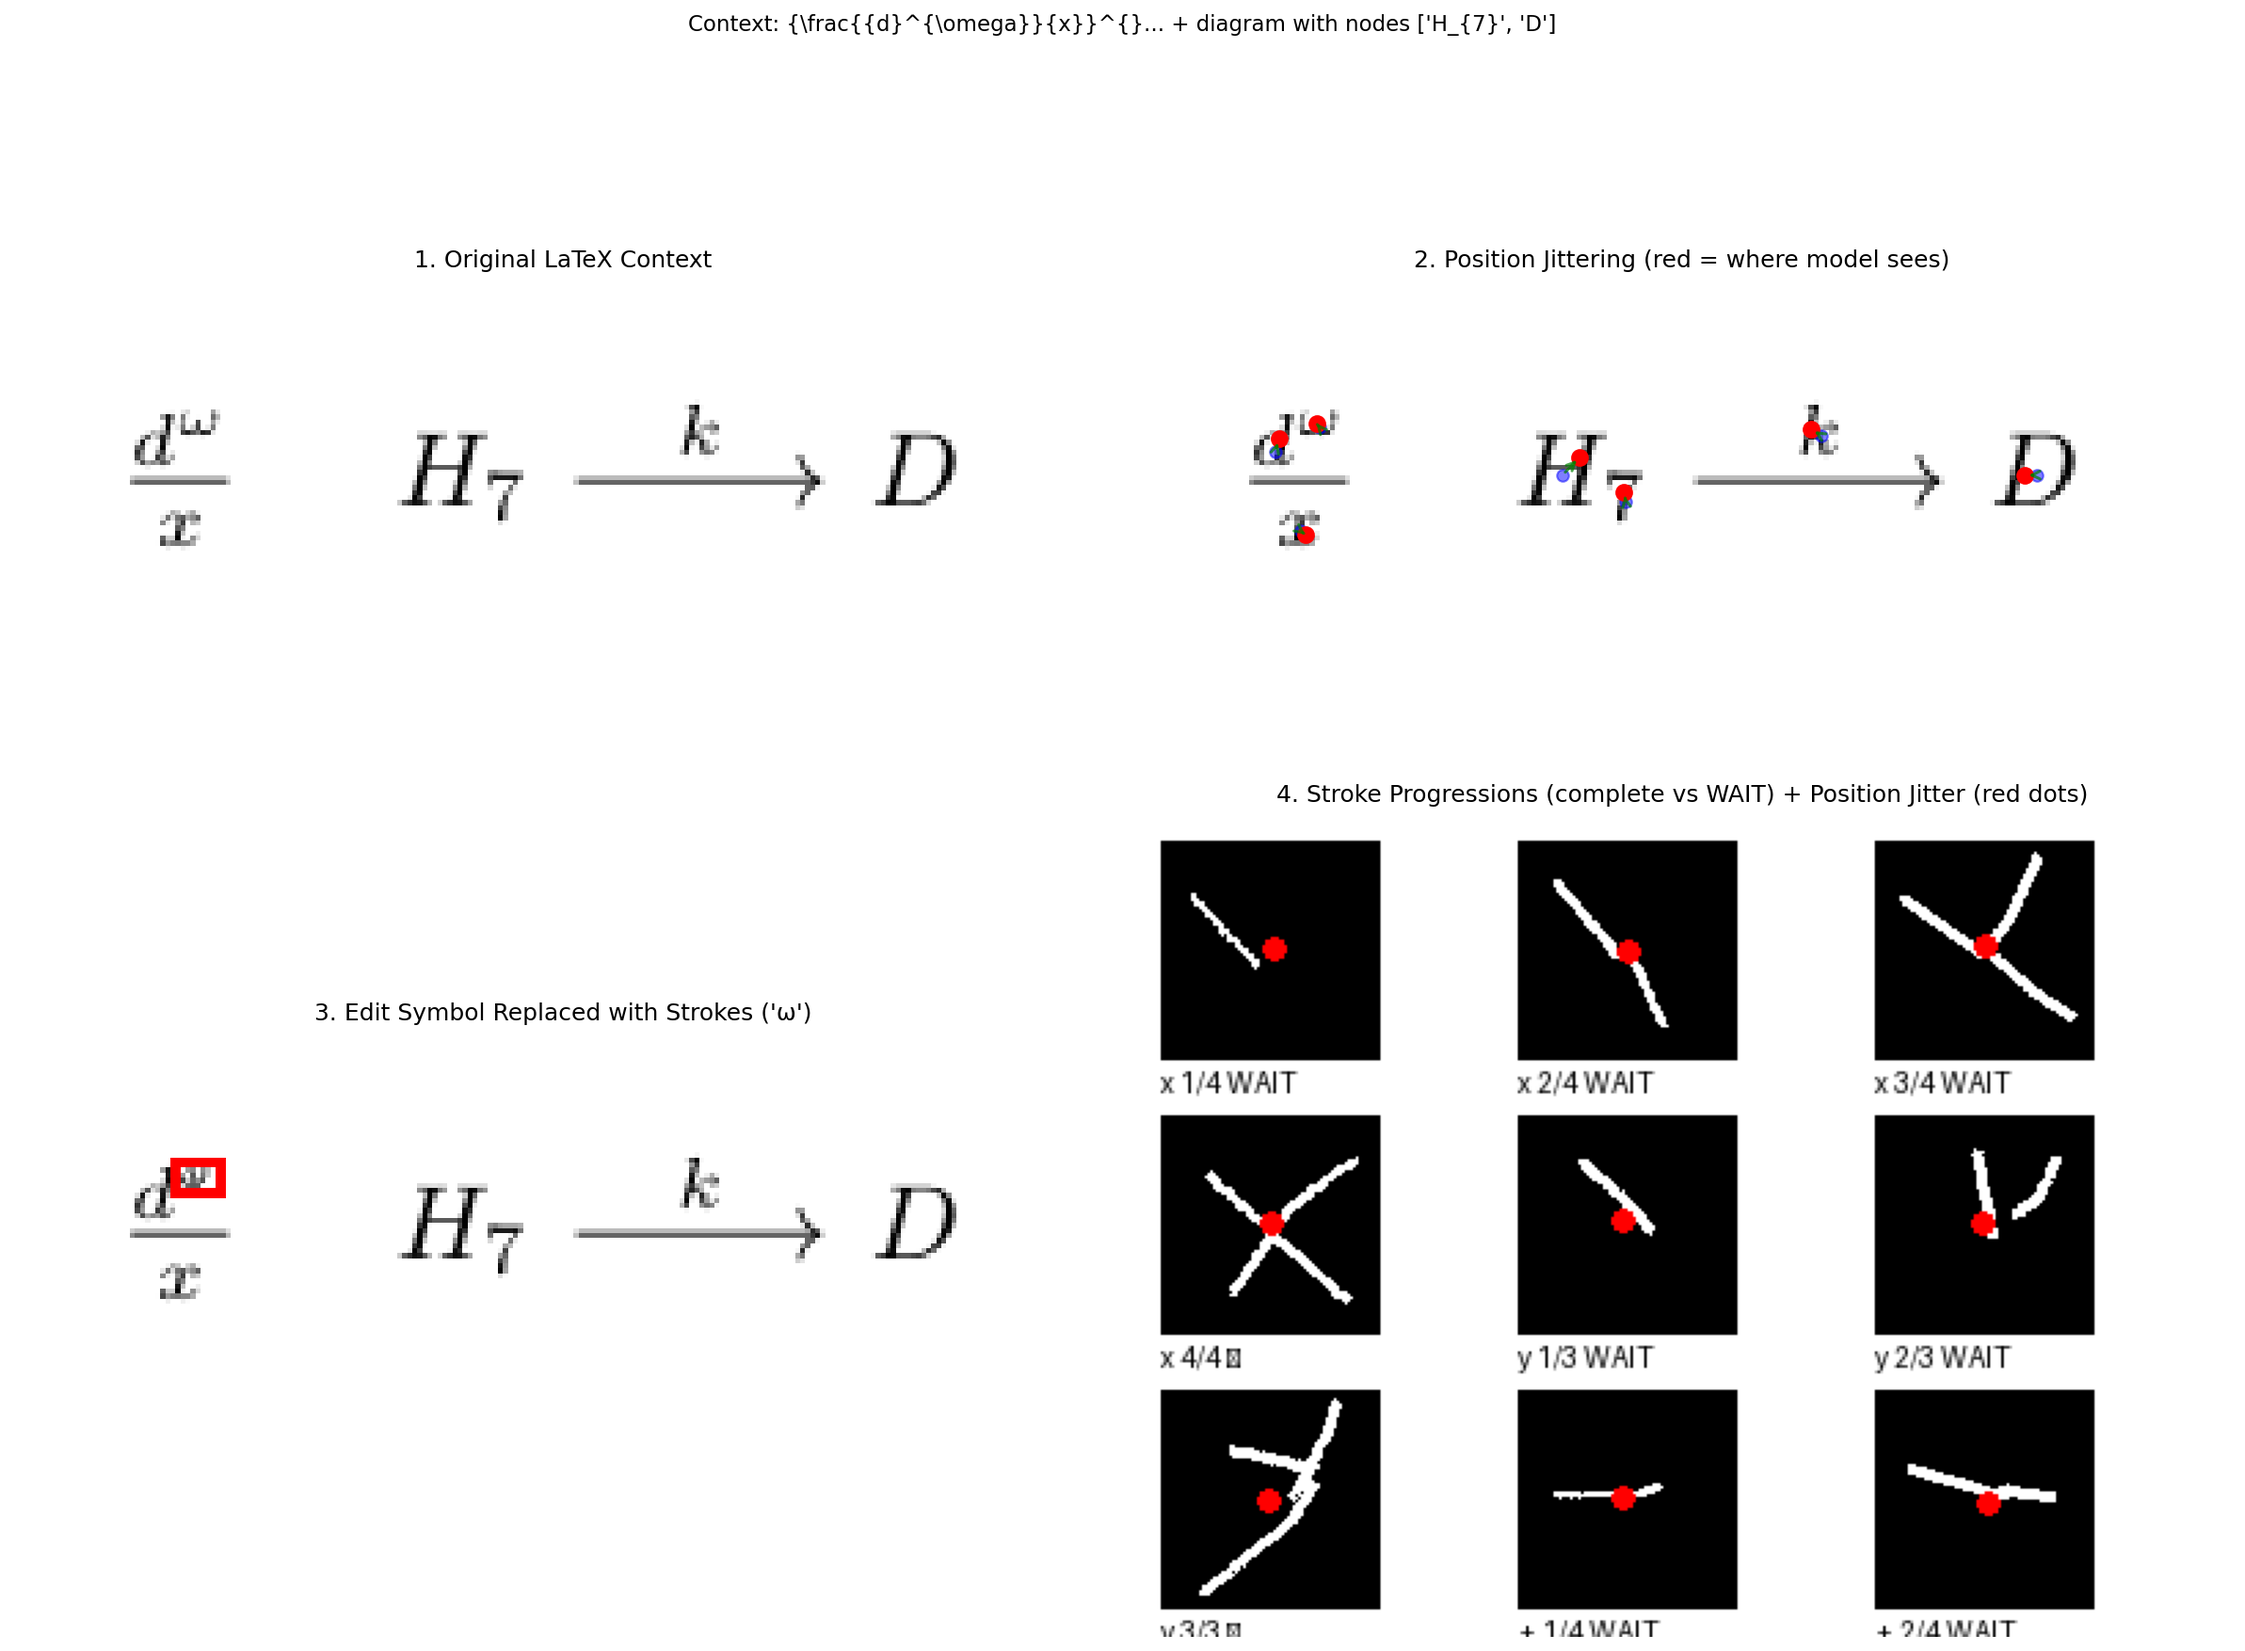
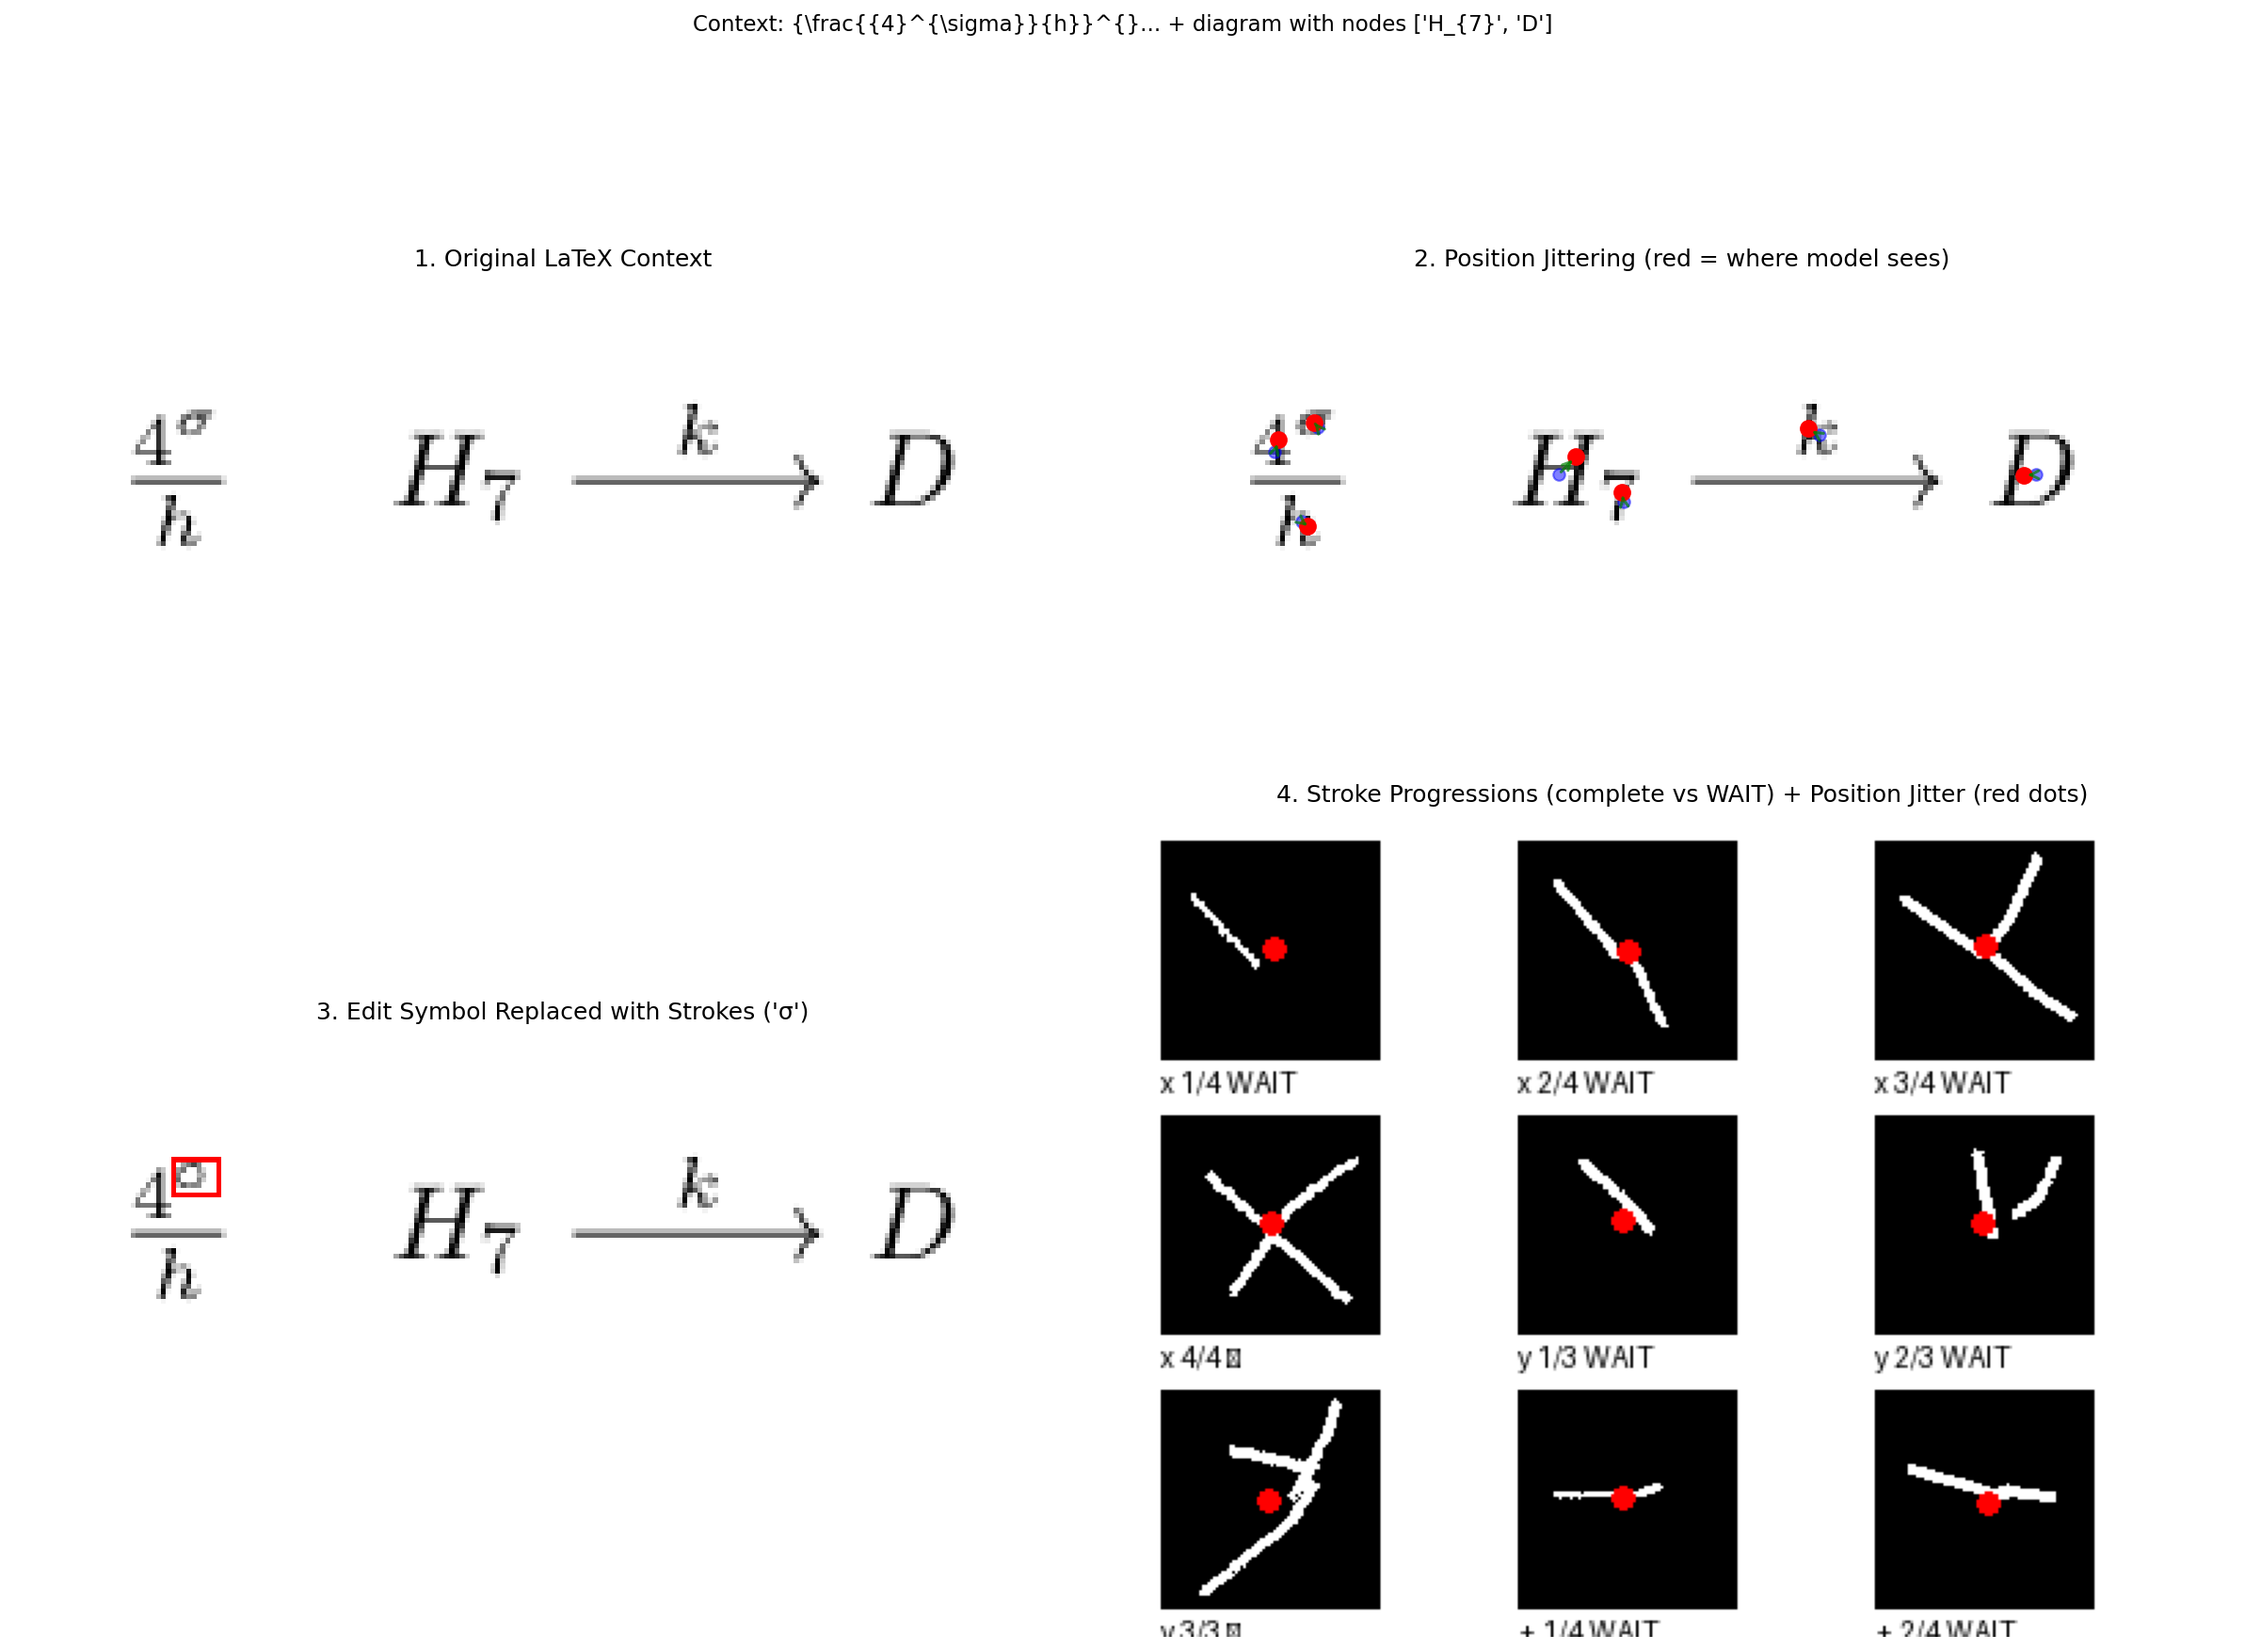
fix: reduce red bounding box thickness from 2 to 1 for clarity

diff --git a/context_tracker/data/demos/visualize_context_demo.py b/context_tracker/data/demos/visualize_context_demo.py
@@ -459,7 +459,7 @@ def visualize_context_with_strokes(
         # Mark the replacement area - TIGHT around original symbol bbox
         box_pad = 1
         draw.rectangle([x0 - box_pad, y0 - box_pad, x1 + box_pad, y1 + box_pad], 
-                      outline='red', width=2)
+                      outline='red', width=1)
     
     ax3.imshow(img_with_strokes)
     # Show what was actually replaced (the symbol we drew strokes for)
